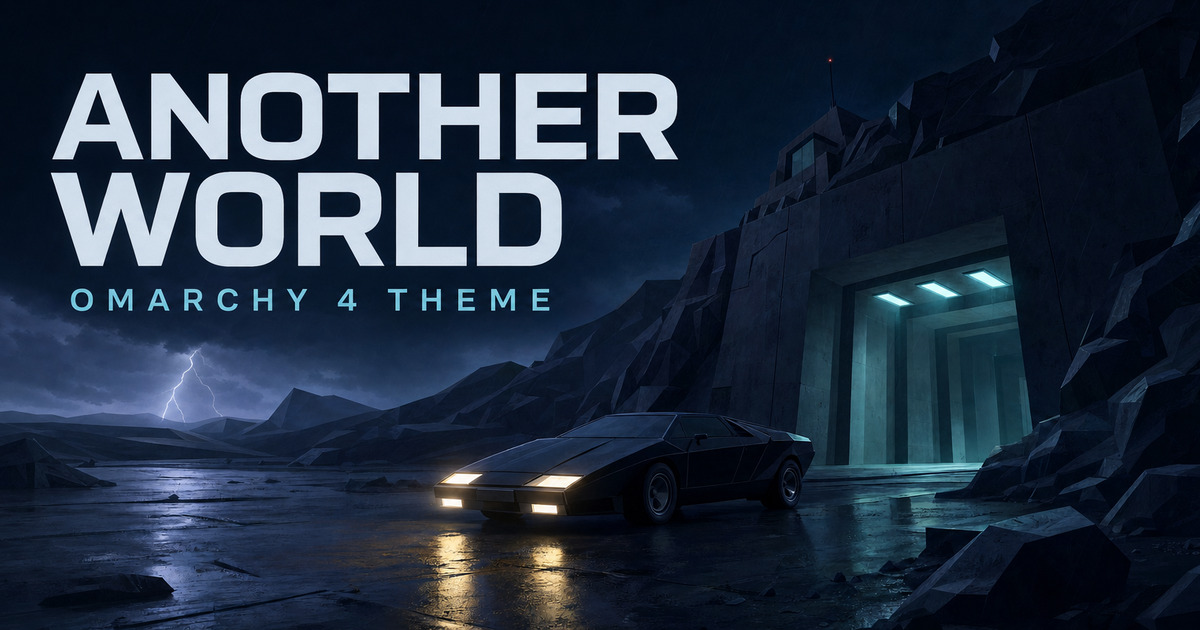
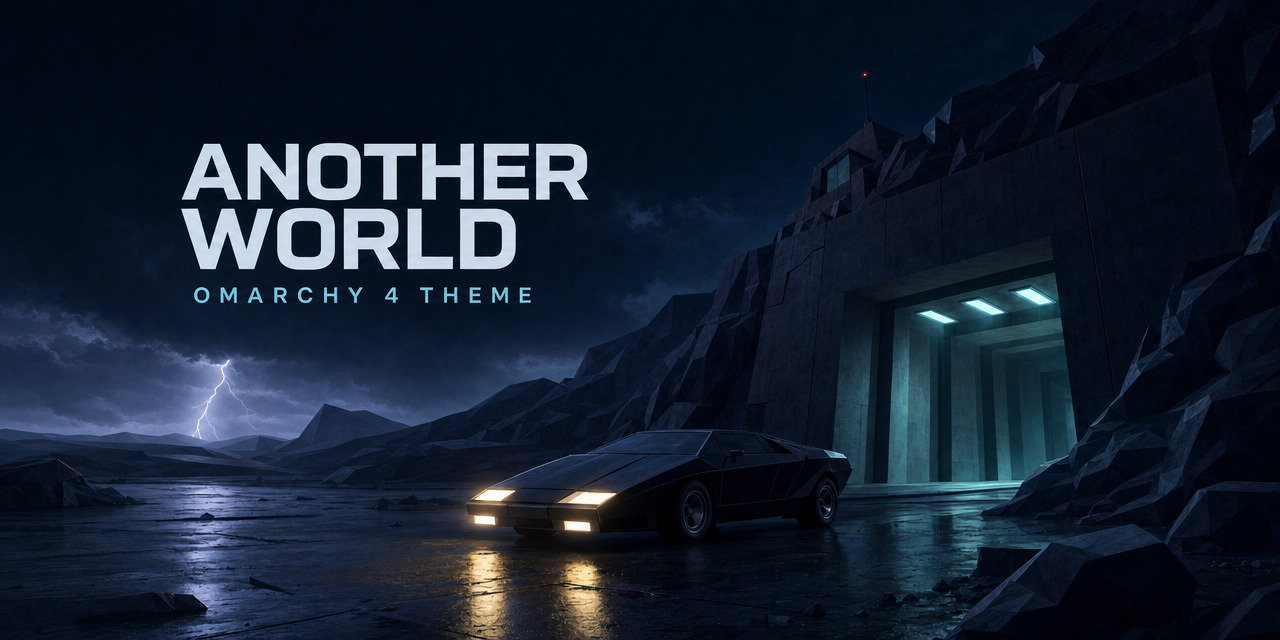
fix theme

diff --git a/README.md b/README.md
@@ -13,7 +13,7 @@ Five wallpapers, all native 3840 × 2160. Click a preview to open the full-resol
 | [![Arrival](docs/previews/00-arrival-4k.jpg)](backgrounds/00-arrival-4k.png)<br>Arrival | [![The Laboratory](docs/previews/laboratory-4k.jpg)](backgrounds/laboratory-4k.png)<br>The Laboratory | [![Alien Landscape](docs/previews/alien-landscape-4k.jpg)](backgrounds/alien-landscape-4k.png)<br>Alien Landscape |
 | [![Underground Escape](docs/previews/underground-escape-4k.jpg)](backgrounds/underground-escape-4k.png)<br>Underground Escape | [![Alien City at Twilight](docs/previews/alien-city-4k.jpg)](backgrounds/alien-city-4k.png)<br>Alien City at Twilight | |
 
-Arrival is the theme's main artwork and the first wallpaper in its sorted collection. Earlier versions remain available in [backgrounds/](backgrounds/).
+Arrival is the theme's main artwork and the first wallpaper in its sorted collection. The installed collection contains only these five 4K wallpapers.
 
 [Complete scene prompts and generation settings](prompts/README.md) are included.
 
@@ -74,6 +74,6 @@ Palette syntax, text contrast and image dimensions have been checked locally. Th
 
 Artwork created with OpenAI image generation. The five 4K wallpapers are native **3840 × 2160**, with no post-generation upscaling. Gallery previews are reduced copies.
 
-The [social card](social-card.jpg) uses Arrival with the theme title, sized at 1200 × 630 and under 1 MB. Its [complete prompt](prompts/social-card.txt) is included.
+The [social card](social-card.jpg) uses Arrival with the theme title, sized at 1280 × 640 and under 1 MB. Its [complete prompt](prompts/social-card.txt) is included.
 
 An unofficial fan tribute to Éric Chahi and Delphine Software. Another World and its characters belong to their respective rights holders. This project is not affiliated with or endorsed by the original creators.

diff --git a/prompts/README.md b/prompts/README.md
@@ -23,4 +23,4 @@ The command makes paid API requests. Existing outputs are not overwritten. Gener
 
 ## Social card
 
-[Social card](../social-card.jpg): Arrival artwork with the theme title, 1200 × 630 JPEG, 173,675 bytes (under 1 MB). Generated through the Images edits API using `gpt-image-2`, then resized and compressed locally. The [complete prompt](social-card.txt) and [generation/export parameters](social-card-manifest.json) are preserved.
+[Social card](../social-card.jpg): Arrival artwork with the theme title, 1280 × 640 JPEG, 176,077 bytes (under 1 MB). Revised using the supplied GitHub template to keep all typography within its safe area. Generated through the Images edits API using `gpt-image-2`, then compressed locally without resizing or cropping. The [complete prompt](social-card.txt) and [generation/export parameters](social-card-manifest.json) are preserved. The previous prompt remains in [social-card-v1.txt](social-card-v1.txt).
